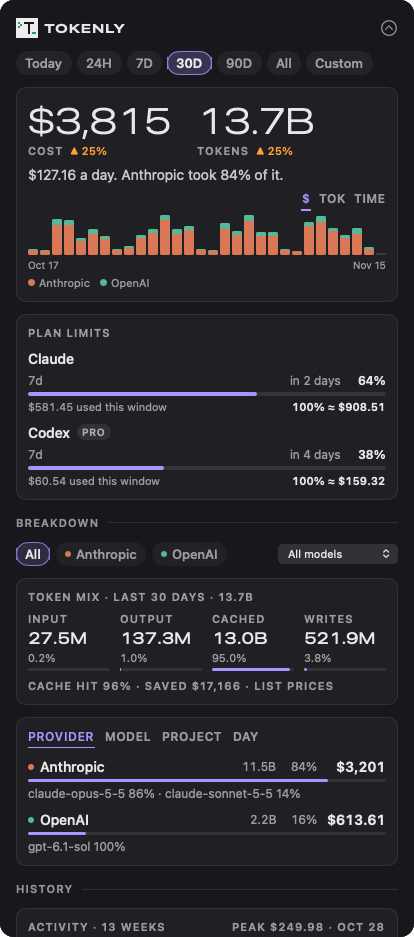
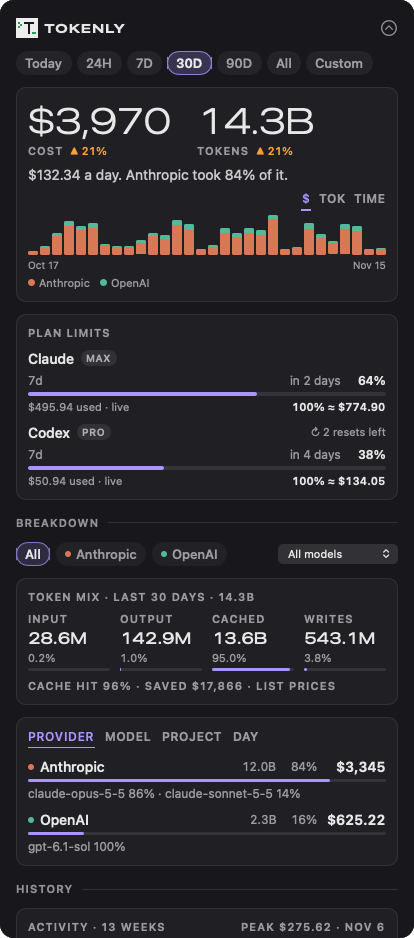
Website: refreshed demo screenshots (live limits, plan badges, reset credits) and a Plan weeks section; richer demo data

diff --git a/docs/index.html b/docs/index.html
@@ -108,7 +108,7 @@
     <p class="sub">The panel opens on a short overview. Unfold it when you want the breakdown and the history.</p>
     <div class="grid">
       <div class="card"><span class="ico">$</span><h3>Cost and tokens</h3><p>Spend at API list prices next to token volume, with the change from the previous period and a one-line summary.</p></div>
-      <div class="card"><span class="ico">%</span><h3>Plan limits and pace</h3><p>Claude and Codex 5h / 7d limits, time to reset, a warning when you're on pace to run out, and what 100% of a limit is worth.</p></div>
+      <div class="card"><span class="ico">%</span><h3>Live plan limits</h3><p>Claude and Codex limits read live, plan badge, reset credits, time to reset, a warning when you're on pace to run out, and what 100% of a limit is worth.</p></div>
       <div class="card"><span class="ico">▤</span><h3>Where it goes</h3><p>Split by provider, model, project and device. Charts stack by provider; the token mix shows what the cache saved you.</p></div>
       <div class="card"><span class="ico">⌚</span><h3>Any period</h3><p>Today, 24 hours, 7 / 30 / 90 days, all time or a custom range. Hourly, daily or monthly bars, and a 13-week calendar.</p></div>
       <div class="card"><span class="ico">⌂</span><h3>All your Macs</h3><p>Optionally bring in your other devices from a linked Vibe Usage account, read-only, back to your first day.</p></div>
@@ -123,12 +123,29 @@
         <div class="eyebrow">Unfolded</div>
         <h2>The full picture, on one page.</h2>
         <ul class="points">
+          <li><b>Plan weeks</b>Cost, full limits used and resets for every week.</li>
           <li><b>Breakdown</b>Provider, model, project, device or day. Click any row to filter the whole panel.</li>
           <li><b>Token mix</b>Input, output, cached and cache writes, with your cache hit rate and savings.</li>
           <li><b>History</b>A 13-week activity calendar and every month on record.</li>
           <li><b>Cost, tokens or time</b>Switch the charts between dollars, tokens and active time.</li>
         </ul>
       </div>
+    </div>
+  </section>
+
+  <section id="plans">
+    <div class="pair">
+      <div>
+        <div class="eyebrow">Plan weeks</div>
+        <h2>How many full limits did you really use?</h2>
+        <p class="sub">Tokenly keeps every plan reading it sees, so each week gets its own numbers, even after the tools' logs are gone.</p>
+        <ul class="points">
+          <li><b>Cost per week</b>What each 7-day window cost at API prices, across all your devices.</li>
+          <li><b>Full limits used</b>The week's cost divided by what 100% was worth that same week.</li>
+          <li><b>Resets detected</b>A mid-week drop in usage shows up as ↻, so weeks above 100% make sense.</li>
+        </ul>
+      </div>
+      <img src="assets/history.png" alt="Plan weeks table with cost, full limits used and detected resets, above the activity calendar">
     </div>
   </section>
 

diff --git a/macos/main.swift b/macos/main.swift
@@ -173,11 +173,32 @@ struct Report {
                 }
             }
         }
+        let claudeReset = Date().addingTimeInterval(2.2 * 86400), codexReset = Date().addingTimeInterval(4.1 * 86400)
         let quotas = [
-            Quota(product: "Claude", plan: nil, meters: [QuotaMeter(label: "7d", percent: 64, resetsAt: Date().addingTimeInterval(2.2 * 86400), window: 7 * 86400)], asOf: Date()),
-            Quota(product: "Codex", plan: "Pro", meters: [QuotaMeter(label: "7d", percent: 38, resetsAt: Date().addingTimeInterval(4.1 * 86400), window: 7 * 86400)], asOf: Date()),
+            Quota(product: "Claude", plan: "Max", meters: [QuotaMeter(label: "7d", percent: 64, resetsAt: claudeReset, window: 7 * 86400)],
+                  asOf: Date(), source: "live"),
+            Quota(product: "Codex", plan: "Pro", meters: [QuotaMeter(label: "7d", percent: 38, resetsAt: codexReset, window: 7 * 86400)],
+                  asOf: Date(), source: "live", resetCredits: 2),
         ]
-        return Report(entries: entries, unpriced: [], quotas: quotas)
+        // Eight weeks of readings; Codex gets a mid-week reset in two of them.
+        var readings: [QuotaReading] = []
+        for (product, reset, resetWeeks) in [("Claude", claudeReset, Set<Int>()), ("Codex", codexReset, Set([2, 5]))] {
+            for k in 0..<8 {
+                let end = reset.addingTimeInterval(-Double(k) * 7 * 86400), start = end.addingTimeInterval(-7 * 86400)
+                var pct = 0.0
+                for step in 1...12 {
+                    let at = start.addingTimeInterval(Double(step) * 7 * 86400 / 13)
+                    if at > Date() { break }
+                    pct += Double.random(in: 5...11, using: &rng)
+                    if resetWeeks.contains(k) && step == 7 { pct = 4 }
+                    readings.append(QuotaReading(product: product, label: "7d", percent: min(pct, 99), resetsAt: end, window: 7 * 86400, at: at))
+                }
+            }
+        }
+        var r = Report(entries: entries, unpriced: [], quotas: quotas)
+        r.readings = readings
+        r.quotas = estimateQuotas(r)
+        return r
     }
 }
 
@@ -1109,7 +1130,10 @@ struct WidgetView: View {
     var content: some View {
         VStack(alignment: .leading, spacing: 12) {
             header
-            if let r = store.report {
+            if let r = store.report, CommandLine.arguments.contains("only=history") {
+                planHistory(r)
+                activity(r)
+            } else if let r = store.report {
                 controls(r)
                 hero(r)
                 if prefs.showLimits && !r.quotas.isEmpty { quotas(r) }
